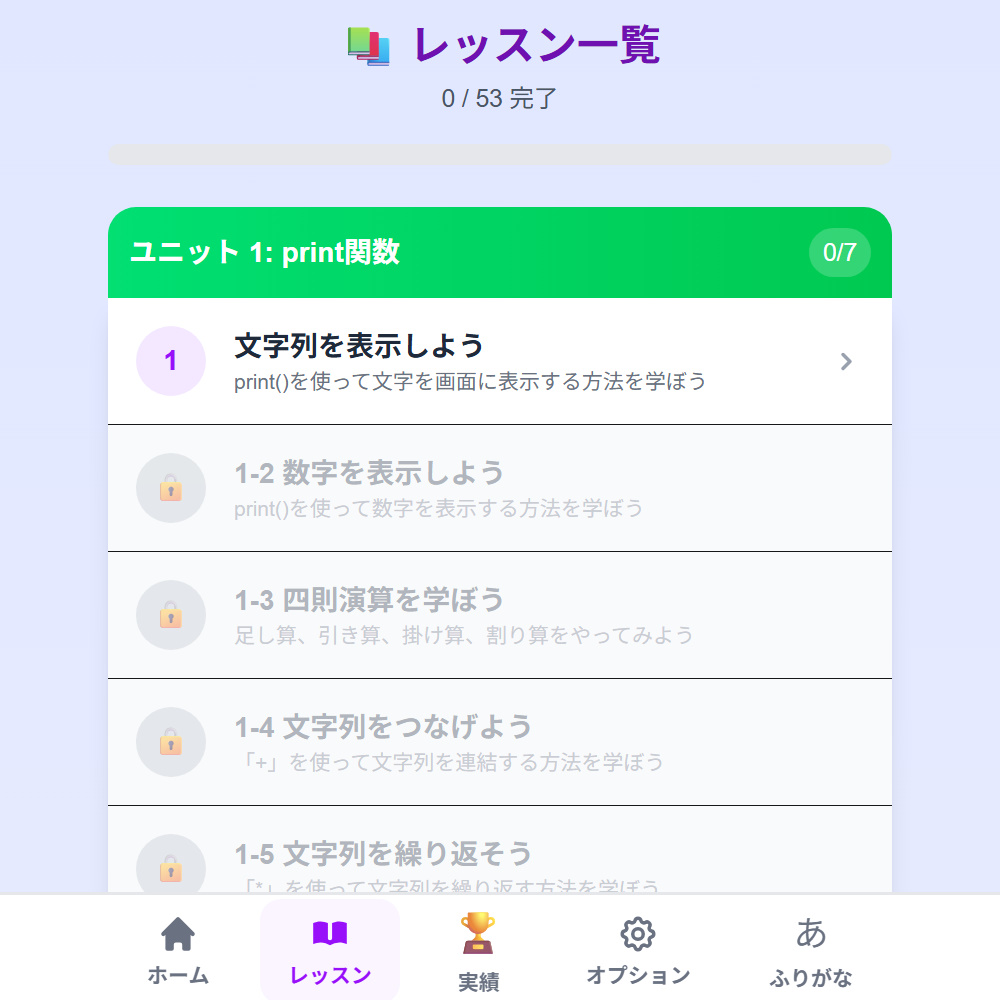
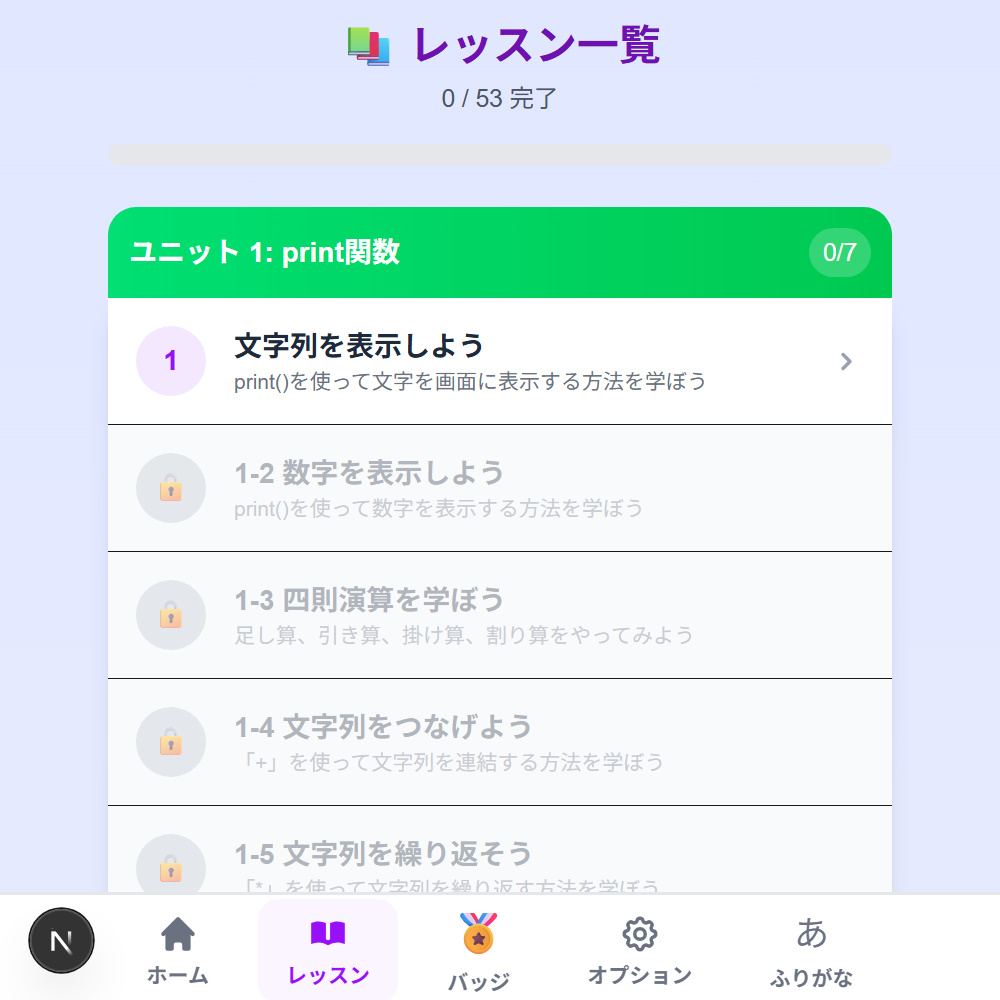
feat: 実績をバッジに名称変更、実績解除をバッジゲット！に変更

diff --git a/src/app/page.tsx b/src/app/page.tsx
@@ -912,7 +912,7 @@ export default function Home() {
         const currentAchievements: string[] = userData.achievements || [];
         const pendingAchievements: string[] = userData.pendingAchievements || [];
 
-        // 保留中の実績があれば表示
+        // 保留中のバッジがあれば表示
         if (pendingAchievements.length > 0) {
           const achievementsToShow = achievements.filter(a => 
             pendingAchievements.includes(a.id)
@@ -920,7 +920,7 @@ export default function Home() {
           setNewAchievements(achievementsToShow);
           setShowAchievementModal(true);
 
-          // 保留中の実績を解除済みに移動
+          // 保留中のバッジを獲得済みに移動
           await updateDoc(doc(db, "users", user.uid), {
             achievements: [...currentAchievements, ...pendingAchievements],
             pendingAchievements: []
@@ -1749,7 +1749,7 @@ export default function Home() {
       {/* フッター */}
       <Footer />
 
-      {/* 実績解除通知モーダル */}
+      {/* バッジゲット通知モーダル */}
       {showAchievementModal && newAchievements.length > 0 && (
         <div className="fixed inset-0 bg-black/60 flex items-center justify-center z-50 p-4">
           <div className="bg-white rounded-2xl p-8 max-w-sm w-full text-center animate-bounce-in">
@@ -1757,7 +1757,7 @@ export default function Home() {
               {newAchievements[currentAchievementIndex].icon}
             </div>
             <h2 className="text-2xl font-bold text-purple-600 mb-2">
-              {language === "ja" ? "🎉 実績解除！" : "🎉 Achievement Unlocked!"}
+              {language === "ja" ? "🎉 バッジゲット！" : "🎉 Achievement Unlocked!"}
             </h2>
             <h3 className="text-xl font-bold text-gray-800 mb-2">
               {newAchievements[currentAchievementIndex].name[language]}

diff --git a/src/app/achievements/page.tsx b/src/app/achievements/page.tsx
@@ -75,7 +75,7 @@ export default function AchievementsPage() {
             <span className="text-xl font-bold">CodeBlock</span>
           </Link>
           <h1 className="text-xl font-bold">
-            {language === "ja" ? "🏆 実績" : "🏆 Achievements"}
+            {language === "ja" ? "🏅 バッジ" : "🏅 Achievements"}
           </h1>
         </div>
       </header>
@@ -85,7 +85,7 @@ export default function AchievementsPage() {
         <div className="bg-white rounded-xl p-6 shadow-lg mb-6">
           <div className="text-center">
             <p className="text-gray-600 mb-2">
-              {language === "ja" ? "獲得した実績" : "Achievements Unlocked"}
+              {language === "ja" ? "獲得したバッジ" : "Achievements Unlocked"}
             </p>
             <p className="text-4xl font-bold text-purple-600">
               {unlockedAchievements.length} / {achievements.length}
@@ -144,7 +144,7 @@ export default function AchievementsPage() {
                 {isUnlocked && (
                   <div className="mt-2">
                     <span className="text-xs bg-green-100 text-green-600 px-2 py-1 rounded-full">
-                      {language === "ja" ? "獲得済み" : "Unlocked"}
+                      {language === "ja" ? "ゲット済み！" : "Unlocked"}
                     </span>
                   </div>
                 )}

diff --git a/src/app/lesson/[id]/editor/page.tsx b/src/app/lesson/[id]/editor/page.tsx
@@ -658,7 +658,7 @@ export default function LessonEditorPage({ params }: EditorPageProps) {
         studiedEarly
       };
       
-      // 新しく解除された実績をチェック
+      // 新しくゲットされたバッジをチェック
       const alreadyUnlocked = [...currentAchievements, ...pendingAchievements];
       const newlyUnlocked = checkNewAchievements(stats, alreadyUnlocked);
       

diff --git a/src/components/Footer.tsx b/src/components/Footer.tsx
@@ -29,9 +29,9 @@ export default function Footer() {
     },
     {
       href: "/achievements",
-      label: "実績",
+      label: "バッジ",
       icon: (
-        <span className="text-2xl">🏆</span>
+        <span className="text-2xl">🏅</span>
       ),
     },
     {

diff --git a/src/app/globals.css b/src/app/globals.css
@@ -64,7 +64,7 @@ body {
   }
 }
 
-/* 実績解除通知アニメーション */
+/* バッジゲット通知アニメーション */
 @keyframes bounce-in {
   0% {
     transform: scale(0.5);
